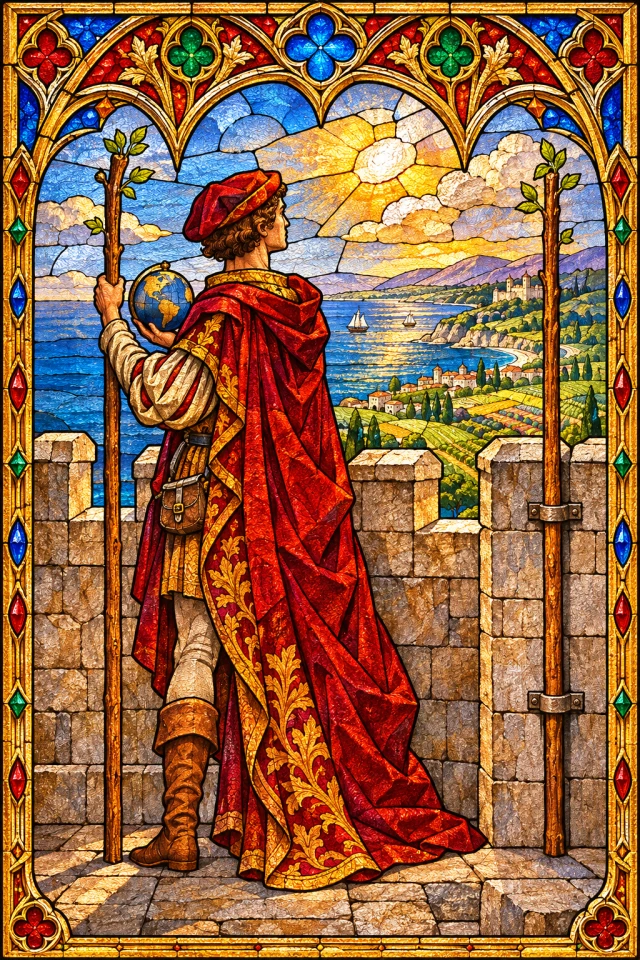
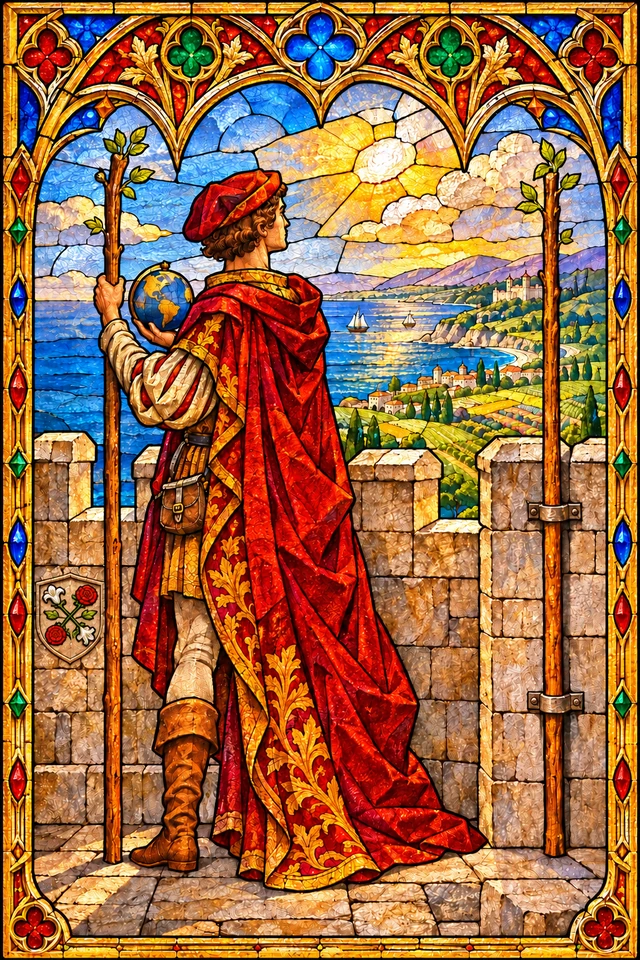
fix(preview): align study search, review disclosures and six candidate artworks
Keep preview and incomplete-review labels. Add bilingual pending checks,
complete per-card provenance, and regenerate reviewed image derivatives.

Validation: 57 offline tests, typecheck, full and web-lite builds,
upstream license verification and image manifests passed.
No live API calls, formal release or deployment.

diff --git a/src/App.vue b/src/App.vue
@@ -3,6 +3,7 @@ import {computed,ref,watch,nextTick,onUnmounted} from 'vue';import {cards,source
 import {saveReading,clearSavedHistory,exportSavedHistory} from './historyStore';
 import ArcanaIcon from './ArcanaIcon.vue';
 import CardArtwork from './CardArtwork.vue';
+import {matchesCardSearch} from './cardSearch';
 import {candidateArt,artStatus,artNote,installedArtCount} from './art';
 import {auditFor,auditLang,reviewLabel,modernPrompt,modernReversalNote,batch} from './audit';
 import {translate,type Locale} from './i18n';import {cardEnglish} from './cardEnglish';import {buildAIContext} from './ai';import ReflectionChat from './ReflectionChat.vue';import RealAcceptanceChat from './RealAcceptanceChat.vue';
@@ -18,7 +19,7 @@ let previousFocus:HTMLElement|null=null;
 watch(selected,async value=>{if(value){previousFocus=document.activeElement as HTMLElement;await nextTick();document.querySelector<HTMLButtonElement>('.modal .close')?.focus();}else{previousFocus?.focus();}});
 function modalKeys(event:KeyboardEvent){if(!selected.value)return;if(event.key==='Escape'){selected.value=null;return;}if(event.key==='Tab'){const items=Array.from(document.querySelectorAll<HTMLElement>('.modal button,.modal a[href],.modal summary'));if(!items.length)return;const first=items[0],last=items[items.length-1];if(event.shiftKey&&document.activeElement===first){event.preventDefault();last.focus();}else if(!event.shiftKey&&document.activeElement===last){event.preventDefault();first.focus();}}}
 document.addEventListener('keydown',modalKeys);onUnmounted(()=>document.removeEventListener('keydown',modalKeys));
-const filtered=computed(()=>cards.filter(c=>(filter.value==='全部'||c.suit===filter.value)&&`${c.name} ${c.english} ${c.theme} ${cardEnglish[c.id].theme}`.toLowerCase().includes(search.value.toLowerCase())));
+const filtered=computed(()=>cards.filter(c=>(filter.value==='全部'||c.suit===filter.value)&&matchesCardSearch(c,search.value)));
 const card=(id:string)=>cards.find(c=>c.id===id)!;
 const concealed=ref<string[]>([]);
 async function reveal(id:string){const index=current.value?.draws.findIndex(d=>d.id===id)??-1;concealed.value=concealed.value.filter(x=>x!==id);await nextTick();document.querySelectorAll<HTMLButtonElement>('.drawn .face')[index]?.focus();}
@@ -37,7 +38,7 @@ const aiContext=computed(()=>current.value?buildAIContext(current.value,locale.v
 <section v-else class="results"><div class="result-head"><div><h2>{{current.question||t('与此刻的自己对话')}}</h2><p>{{t("结果已固定。以下为项目原创反思文案，并非原典引文或未来预测。")}}</p></div></div><div class="draw-grid" :class="{single:current.draws.length===1}"><article v-for="d in current.draws" :key="d.id" class="drawn"><span class="position">{{t(d.position)}}</span><button class="face equal-face" :class="{revealed:!concealed.includes(d.id)}" @click="concealed.includes(d.id)?reveal(d.id):selected=card(d.id)" :aria-label="concealed.includes(d.id)?(locale==='en'?'Reveal card: ':'翻开牌：')+t(d.position):(locale==='en'?'View card: ':'查看牌：')+cardName(card(d.id))"><img v-if="concealed.includes(d.id)" src="/art/card-back.svg" alt="" width="1024" height="1536"><CardArtwork :locale="locale" v-else :id="d.id" :alt="cardName(card(d.id))" class="candidate-draw" :class="{reverse:d.reversed}" /></button><div class="card-caption"><template v-if="!concealed.includes(d.id)"><small>{{artStatus(d.id,locale)}}</small><h3>{{cardName(card(d.id))}}</h3><span class="orientation">{{t(d.reversed?'逆位 · 内在视角':'正位 · 显现视角')}}</span><p>{{interpretation(d)}}</p></template><span v-else>{{locale==='en'?'Click to reveal':'点击翻牌'}}</span></div></article></div><ReflectionChat v-if="aiContext && !concealed.length" :context="aiContext" /><RealAcceptanceChat v-if="aiContext && !concealed.length" :context="aiContext" /><div class="reading-end"><button @click="current=null">{{locale==='en'?'Finish this reading':'结束本次解读'}}</button></div></section></template>
 <section v-if="tab==='library'"><div class="page-title"><h1>{{t("78 个意象，一部图谱。")}}</h1><p>{{t("22 张大阿卡纳 · 56 张小阿卡纳。身份完整，图像与知识逐牌核校中。")}}</p></div><p class="audit-coverage">{{locale==='en'?'Primary texts: 78 basic named-card sections first-pass checked. Additional historical meanings and all images remain pending; no card is fully audited.':'原典文本：78 张基础条目首轮核对；额外历史释义、早期图版与成品图仍待审，目前没有全面核校完成的牌。'}}</p><div class="filters"><input v-model="search" :aria-label="t('搜索牌名')" :placeholder="t('搜索牌名、英文或主题…')"><select v-model="filter" :aria-label="t('筛选花色')"><option v-for="s in ['全部','大阿卡纳','权杖','圣杯','宝剑','星币']" :value="s">{{t(s)}}</option></select><span>{{filtered.length}} {{locale==='en'?(filtered.length===1?'card':'cards'):'张'}}</span></div><div class="library-grid"><button class="mini-card" v-for="c in filtered" :key="c.id" @click="selected=c"><span>{{c.arcana==='major'?String(c.rank).padStart(2,'0'):t(c.suit)}}</span><CardArtwork :locale="locale" v-if="candidateArt[c.id]" :id="c.id" sizes="(max-width: 600px) 38vw, 140px" :alt="cardName(c)" loading="lazy" class="candidate-thumb" /><i v-else>✧</i><small v-if="candidateArt[c.id]">{{artStatus(c.id,locale)}}</small><strong>{{cardName(c)}}</strong><small v-if="locale==='zh'">{{c.english}}</small><small v-if="!candidateArt[c.id] && artNote(c.id,locale)">{{artStatus(c.id,locale)}}</small><em>{{cardText(c,'theme')}}</em></button></div><p v-if="!filtered.length">{{t("没有找到匹配的牌。")}}</p></section>
 <section v-if="tab==='history'"><div class="page-title"><h1>{{t("留下片刻的思考。")}}</h1><p>{{t("只保存在当前浏览器，最多 50 条。不上传，不追踪。清除浏览器数据会丢失记录。")}}</p></div><div class="actions"><button @click="exportHistory" :disabled="!history.length"><ArcanaIcon name="export" :size="20" />{{t("导出 JSON 备份")}}</button><button @click="clearHistory" :disabled="!history.length">{{t("清除本地记录")}}</button></div><p v-if="!history.length" class="empty">{{t("还没有记录。你的第一段对话，随时可以开始。")}}</p><button v-for="r in history" class="history-item" @click="openReading(r)"><small>{{new Date(r.createdAt).toLocaleString(locale==='en'?'en-US':'zh-CN')}}</small><strong>{{r.question||t('与此刻的自己对话')}}</strong><span>{{r.draws.map(d=>cardName(card(d.id))+(d.reversed?(locale==='en'?' (reversed)':'（逆）'):'')).join(' · ')}} ↗</span></button></section>
-<section v-if="tab==='about'" class="about"><div class="page-title"><h1>{{t("关于这部秘典")}}</h1></div><p class="audit-coverage">{{locale==='en'?'Primary texts: 78 basic named-card sections first-pass checked. Additional historical meanings and all images remain pending; no card is fully audited.':'原典文本：78 张基础条目首轮核对；额外历史释义、早期图版与成品图仍待审，目前没有全面核校完成的牌。'}}</p><h2>{{t("一个体系，不混搭。")}}</h2><p>{{t("采用 Rider–Waite–Smith 78 张身份结构。力量为 VIII，正义为 XI。牌阵由程序固定位置；使用浏览器安全随机源，无放回抽取；每张牌独立决定正逆位。没有模型替你挑牌，也没有付费 API。")}}</p><h2>{{t("知识与来源分层")}}</h2><p>{{t("牌名与结构、可观察符号、历史解释、现代反思分别记录。78 张基础原典条目完成选择性首轮核对，额外历史释义尚待审。全部早期图版与成品图仍待核。现代正逆位反思是项目原创，不冒充 Waite 的历史占卜词条，也不是完整原典译本。")}}</p><article v-for="s in sources"><a :href="s.url" target="_blank" rel="noopener noreferrer">{{t(s.title)}} ↗</a><p>{{t(s.note)}}</p></article><h2>{{t("原创视觉，透明进度")}}</h2><p>{{t("方向为哥特彩绘玻璃。当前有 78 张候选图（含命运轮待排版底图），无占位，没有最终定稿牌面；界面几何装饰不是正式牌图。78 张牌的符号、人物与花色数量必须逐张验证。后续牌背必须具有 180° 旋转对称性。")}}</p><h2>{{t("免费、无广告、无追踪")}}</h2><p>{{t("无会员、支付、广告或数据收集。代码许可 MIT；本版原创中文摘要 CC0；第三方原典及图像以各自来源许可为准。不打包现代商业牌图或未获许可的译文。")}}</p><h2>{{t("使用边界")}}</h2><p>{{t("仅供文化学习和自我反思，不预测命运、不推断他人隐私，也不替代医疗、法律或财务建议。「死神」等名称不可用于推断真实死亡或疾病。遇到现实问题，请依据事实与适当的专业支持作出决定。")}}</p></section>
+<section v-if="tab==='about'" class="about"><div class="page-title"><h1>{{t("关于这部秘典")}}</h1></div><p class="audit-coverage">{{locale==='en'?'Primary texts: 78 basic named-card sections first-pass checked. Additional historical meanings and all images remain pending; no card is fully audited.':'原典文本：78 张基础条目首轮核对；额外历史释义、早期图版与成品图仍待审，目前没有全面核校完成的牌。'}}</p><h2>{{t("一个体系，不混搭。")}}</h2><p>{{t("采用 Rider–Waite–Smith 78 张身份结构。力量为 VIII，正义为 XI。牌阵由程序固定位置；使用浏览器安全随机源，无放回抽取；每张牌独立决定正逆位。没有模型替你挑牌。基础功能无需 API；可选 OpenAI 对话需要单独启用服务并确认数据分享，可能产生费用。")}}</p><h2>{{t("知识与来源分层")}}</h2><p>{{t("牌名与结构、可观察符号、历史解释、现代反思分别记录。78 张基础原典条目完成选择性首轮核对，额外历史释义尚待审。全部早期图版与成品图仍待核。现代正逆位反思是项目原创，不冒充 Waite 的历史占卜词条，也不是完整原典译本。")}}</p><article v-for="s in sources"><a :href="s.url" target="_blank" rel="noopener noreferrer">{{t(s.title)}} ↗</a><p>{{t(s.note)}}</p></article><h2>{{t("原创视觉，透明进度")}}</h2><p>{{t("方向为哥特彩绘玻璃。当前有 78 张候选图（含命运轮专项复核后的改编候选），无占位，没有最终定稿牌面；界面几何装饰不是正式牌图。78 张牌的符号、人物与花色数量必须逐张验证。当前原创 SVG 牌背采用 180° 旋转对称结构，仍为候选设计。")}}</p><h2>{{t("免费、无广告、无追踪")}}</h2><p>{{t("无会员、支付、广告或遥测。历史仅保存在本机浏览器；可选 OpenAI 对话只在明确同意后发送当前牌阵、问题和对话。代码采用 MIT；原创文案、图标和牌图采用相应 CC BY 4.0 条款，仅涵盖实际持有的可授权权利；第三方资料保留各自权利。这不保证生成图独占或无侵权风险。此前有效授予的 CC0 权利继续有效，详见 CONTENT-LICENSE.md。")}}</p><h2>{{t("使用边界")}}</h2><p>{{t("仅供文化学习和自我反思，不预测命运、不推断他人隐私，也不替代医疗、法律或财务建议。「死神」等名称不可用于推断真实死亡或疾病。遇到现实问题，请依据事实与适当的专业支持作出决定。")}}</p></section>
 <p v-if="notice" role="status" class="notice">{{t(notice)}}</p></main><footer><span>✦ {{t('琉璃秘典')}} / GLASS ARCANA</span><span>{{t("文化 · 意象 · 自我反思")}}</span><span>EARLY STUDY BUILD · 0.1.0</span></footer></div>
-<div v-if="selected" class="modal" @click.self="selected=null" @keydown.esc="selected=null"><section role="dialog" aria-modal="true" :aria-label="cardName(selected)" tabindex="-1"><button class="close" autofocus @click="selected=null"><ArcanaIcon name="close" :size="20" />{{locale==='en'?'Close':'关闭'}}</button><span class="section-no">{{selected.id}} · {{reviewLabel(selected.id,locale)}}</span><h2>{{cardName(selected)}}</h2><figure v-if="candidateArt[selected.id]" class="candidate-figure"><CardArtwork :locale="locale" :id="selected.id" :alt="cardName(selected)" /><figcaption>{{locale==='en'?'Generated candidate artwork. Visual/rights review pending; not approved.':'生成候选图，视觉及权利核验待完成，非定稿。'}}</figcaption><p v-if="selected.id==='major-2'">{{locale==='en'?'B/J/TORA and partial scroll concealment passed targeted visual review; final artwork review remains pending.':'B/J/TORA 与卷轴遮挡专项复核通过；整体成品仍待最终审校。'}}</p></figure><p v-if="artNote(selected.id,locale)">{{artStatus(selected.id,locale)}} · {{artNote(selected.id,locale)}}</p><p>{{selected.english}} · {{cardText(selected,'theme')}}</p><h3>{{t("图像核校清单")}}</h3><p>{{cardText(selected,'symbol')}}</p><p v-if="selected.arcana==='minor' && selected.rank<=10 && selected.count!==null">{{t('主花色器物目标数量：')}}{{selected.count}}{{t('。宫廷牌数字不是器物数量。')}}</p><div class="audit-state"><p>{{reviewLabel(selected.id,locale)}}</p><p>{{locale==='en'?'Early plate visual review: pending · Final artwork review: pending':'早期图版视觉核验：待核 · 项目成品图核验：待核'}}</p></div><details v-if="auditFor(selected.id)" class="historical"><summary>{{locale==='en'?'Historical study notes · not a prediction':'历史资料学习区 · 不作为预测'}}</summary><p>{{locale==='en'?'Selective summaries, not a complete translation. Sources: A. E. Waite, Wikisource transcription of the 1922 edition; original illustration attribution: Pamela Colman Smith.':'选择性历史摘要，不是完整译本。来源：A. E. Waite，Wikisource 的 1922 年版转录；原插图署名 Pamela Colman Smith。'}}</p><h3>{{locale==='en'?'Historical symbolism':'历史象征说明'}}</h3><p>{{auditFor(selected.id)!.historical.symbolism[auditLang(locale)]}}</p><h3>{{locale==='en'?'Historical divinatory terms':'历史占卜词条'}}</h3><p>{{auditFor(selected.id)!.historical.divination[auditLang(locale)]}}</p><p>{{auditFor(selected.id)!.historical.locator}}</p><p>{{auditFor(selected.id)!.limitations[auditLang(locale)]}}</p><ul><li v-for="source in batch.sources.filter(s=>auditFor(selected!.id)!.sources.includes(s.id))"><a :href="source.url" target="_blank" rel="noopener noreferrer">{{source.id}} ↗</a><small>{{source.edition}}</small></li></ul></details><h3>{{t("反思问题 · 项目原创")}}</h3><p>{{cardText(selected,'prompt')}}</p><h3>{{t("来源与状态")}}</h3><p>{{t("本条为学习摘要，待对照原典与早期图像逐项核校。不是原文引文。")}}</p><a :href="sources[0].url" target="_blank" rel="noopener">{{t("查看原典核校入口 ↗")}}</a></section></div>
+<div v-if="selected" class="modal" @click.self="selected=null" @keydown.esc="selected=null"><section role="dialog" aria-modal="true" :aria-label="cardName(selected)" tabindex="-1"><button class="close" autofocus @click="selected=null"><ArcanaIcon name="close" :size="20" />{{locale==='en'?'Close':'关闭'}}</button><span class="section-no">{{selected.id}} · {{reviewLabel(selected.id,locale)}}</span><h2>{{cardName(selected)}}</h2><figure v-if="candidateArt[selected.id]" class="candidate-figure"><CardArtwork :locale="locale" :id="selected.id" :alt="cardName(selected)" /><figcaption>{{locale==='en'?'Generated candidate artwork. Visual/rights review pending; not approved.':'生成候选图，视觉及权利核验待完成，非定稿。'}}</figcaption><p v-if="selected.id==='major-2'">{{locale==='en'?'B/J/TORA and partial scroll concealment passed targeted visual review; final artwork review remains pending.':'B/J/TORA 与卷轴遮挡专项复核通过；整体成品仍待最终审校。'}}</p></figure><p v-if="artNote(selected.id,locale)">{{artStatus(selected.id,locale)}} · {{artNote(selected.id,locale)}}</p><p>{{selected.english}} · {{cardText(selected,'theme')}}</p><h3>{{locale==='en'?'Historical image description · not an exact reproduction of this artwork':'原典图像描述 · 不代表本项目牌面逐项复刻'}}</h3><p>{{cardText(selected,'symbol')}}</p><section v-if="auditFor(selected.id)?.iconography.pendingChecks.length" class="pending-checks"><h3>{{locale==='en'?'Pending checks and differences':'待核事项与差异说明'}}</h3><ul><li v-for="(check,index) in auditFor(selected.id)!.iconography.pendingChecks" :key="index">{{check[auditLang(locale)]}}</li></ul></section><p v-if="selected.arcana==='minor' && selected.rank<=10 && selected.count!==null">{{t('主花色器物目标数量：')}}{{selected.count}}{{t('。宫廷牌数字不是器物数量。')}}</p><div class="audit-state"><p>{{reviewLabel(selected.id,locale)}}</p><p>{{locale==='en'?'Early plate visual review: pending · Final artwork review: pending':'早期图版视觉核验：待核 · 项目成品图核验：待核'}}</p></div><details v-if="auditFor(selected.id)" class="historical"><summary>{{locale==='en'?'Historical study notes · not a prediction':'历史资料学习区 · 不作为预测'}}</summary><p>{{locale==='en'?'Selective summaries, not a complete translation. Sources: A. E. Waite, Wikisource transcription of the 1922 edition; original illustration attribution: Pamela Colman Smith.':'选择性历史摘要，不是完整译本。来源：A. E. Waite，Wikisource 的 1922 年版转录；原插图署名 Pamela Colman Smith。'}}</p><h3>{{locale==='en'?'Historical symbolism':'历史象征说明'}}</h3><p>{{auditFor(selected.id)!.historical.symbolism[auditLang(locale)]}}</p><h3>{{locale==='en'?'Historical divinatory terms':'历史占卜词条'}}</h3><p>{{auditFor(selected.id)!.historical.divination[auditLang(locale)]}}</p><p>{{auditFor(selected.id)!.historical.locator}}</p><p>{{auditFor(selected.id)!.limitations[auditLang(locale)]}}</p><ul><li v-for="source in batch.sources.filter(s=>auditFor(selected!.id)!.sources.includes(s.id))"><a :href="source.url" target="_blank" rel="noopener noreferrer">{{source.id}} ↗</a><small>{{source.edition}}</small></li></ul></details><h3>{{t("反思问题 · 项目原创")}}</h3><p>{{cardText(selected,'prompt')}}</p><h3>{{t("来源与状态")}}</h3><p>{{t("本条为学习摘要，待对照原典与早期图像逐项核校。不是原文引文。")}}</p><a :href="sources[0].url" target="_blank" rel="noopener">{{t("查看原典核校入口 ↗")}}</a></section></div>
 </template>

diff --git a/src/i18n.ts b/src/i18n.ts
@@ -51,13 +51,13 @@ export const english:Record<string,string> = {
   "还没有记录。你的第一段对话，随时可以开始。": "No readings yet. Your first reflection can begin whenever you are ready.",
   "关于这部秘典": "About Glass Arcana",
   "一个体系，不混搭。": "One system, kept distinct.",
-  "采用 Rider–Waite–Smith 78 张身份结构。力量为 VIII，正义为 XI。牌阵由程序固定位置；使用浏览器安全随机源，无放回抽取；每张牌独立决定正逆位。没有模型替你挑牌，也没有付费 API。": "This project follows the 78-card Rider–Waite–Smith structure: Strength VIII and Justice XI. Spread positions are fixed by code. Secure browser randomness draws without replacement, with independently selected orientations. No model selects your cards and no paid API is used.",
+  "采用 Rider–Waite–Smith 78 张身份结构。力量为 VIII，正义为 XI。牌阵由程序固定位置；使用浏览器安全随机源，无放回抽取；每张牌独立决定正逆位。没有模型替你挑牌。基础功能无需 API；可选 OpenAI 对话需要单独启用服务并确认数据分享，可能产生费用。": "This project follows the 78-card Rider–Waite–Smith structure: Strength VIII and Justice XI. Spread positions are fixed by code. Secure browser randomness draws without replacement, with independently selected orientations. No model selects your cards. Core features need no API; optional OpenAI chat requires a separately enabled service and data-sharing consent and may incur charges.",
   "知识与来源分层": "Separate knowledge from interpretation",
   "牌名与结构、可观察符号、历史解释、现代反思分别记录。78 张基础原典条目完成选择性首轮核对，额外历史释义尚待审。全部早期图版与成品图仍待核。现代正逆位反思是项目原创，不冒充 Waite 的历史占卜词条，也不是完整原典译本。": "Card identity, observable symbols, historical meanings and modern reflections are separate layers. 78 basic named-card summaries have had a first-pass text check; additional historical meanings remain pending. All early-plate and final-artwork reviews are pending. Modern reflection is original project prose, not Waite’s historical divination or a complete translation.",
   "原创视觉，透明进度": "Original visuals, honest progress",
-  "方向为哥特彩绘玻璃。当前有 78 张候选图（含命运轮待排版底图），无占位，没有最终定稿牌面；界面几何装饰不是正式牌图。78 张牌的符号、人物与花色数量必须逐张验证。后续牌背必须具有 180° 旋转对称性。": "The visual direction is Gothic stained glass. 78 candidate artworks are installed, including the Wheel base pending typography; no placeholders remain and none is approved final art. Geometric decorations are not card art. Figures, symbols and suit counts need individual review. The final card back must be invariant under 180-degree rotation.",
+  "方向为哥特彩绘玻璃。当前有 78 张候选图（含命运轮专项复核后的改编候选），无占位，没有最终定稿牌面；界面几何装饰不是正式牌图。78 张牌的符号、人物与花色数量必须逐张验证。当前原创 SVG 牌背采用 180° 旋转对称结构，仍为候选设计。": "Gothic stained glass: 78 candidate faces including the Wheel adaptation after targeted symbol review, not a finished certified deck. Symbols, people and suit counts require individual review. The original SVG card back uses 180-degree rotational symmetry and remains a candidate.",
   "免费、无广告、无追踪": "Free, ad-free and tracking-free",
-  "无会员、支付、广告或数据收集。代码许可 MIT；本版原创中文摘要 CC0；第三方原典及图像以各自来源许可为准。不打包现代商业牌图或未获许可的译文。": "No memberships, payments, advertising or data collection. Code: MIT. Original Chinese and English notes: CC0. Third-party sources retain their own terms. No commercial modern deck images or unlicensed translations are bundled.",
+  "无会员、支付、广告或遥测。历史仅保存在本机浏览器；可选 OpenAI 对话只在明确同意后发送当前牌阵、问题和对话。代码采用 MIT；原创文案、图标和牌图采用相应 CC BY 4.0 条款，仅涵盖实际持有的可授权权利；第三方资料保留各自权利。这不保证生成图独占或无侵权风险。此前有效授予的 CC0 权利继续有效，详见 CONTENT-LICENSE.md。": "No memberships, payments, ads or telemetry. History stays in this browser. Optional OpenAI chat sends the current reading, question and conversation only with explicit consent. Code is MIT; original prose, icons and card artwork use their applicable CC BY 4.0 terms, only to the extent licensable rights are held. Third-party rights remain separate. Generated images are not guaranteed exclusive or non-infringing. Earlier valid CC0 grants remain effective; see CONTENT-LICENSE.md.",
   "使用边界": "Boundaries",
   "仅供文化学习和自我反思，不预测命运、不推断他人隐私，也不替代医疗、法律或财务建议。「死神」等名称不可用于推断真实死亡或疾病。遇到现实问题，请依据事实与适当的专业支持作出决定。": "For cultural learning and self-reflection only. This does not predict fate, reveal private thoughts or replace medical, legal or financial advice. Names such as Death must not be used to infer real death or illness. Base real-world decisions on facts and appropriate professional support.",
   "文化 · 意象 · 自我反思": "Culture · Symbolism · Reflection",

diff --git a/tests/art.test.ts b/tests/art.test.ts
@@ -1,5 +1,9 @@
-import {test} from 'node:test';import assert from 'node:assert/strict';import {existsSync} from 'node:fs';import {candidateArt,artStatus} from '../src/art';import review from '../src/artReview.json';test('78 candidates installed, Wheel explicitly pending typography',()=>{assert.equal(Object.keys(candidateArt).length,78);for(const path of Object.values(candidateArt))assert(existsSync('public'+path));assert.match(artStatus('major-10','en'),/typography pending/);for(const [id,r] of Object.entries(review)){assert.equal(Boolean(candidateArt[id]),r.installed);if(r.status==='adapted_candidate'){assert.match(artStatus(id,'zh'),/改编/);assert.match(artStatus(id,'en'),/Adapted/);}}});
+import {test} from 'node:test';import assert from 'node:assert/strict';import {existsSync} from 'node:fs';import {candidateArt,artStatus} from '../src/art';import review from '../src/artReview.json';test('78 candidates installed, Wheel retains targeted-review adaptation limits',()=>{assert.equal(Object.keys(candidateArt).length,78);for(const path of Object.values(candidateArt))assert(existsSync('public'+path));assert.match(artStatus('major-10','en'),/Adapted/);assert.match(review['major-10'].noteEn,/spoke extension above Mercury is missing/);for(const [id,r] of Object.entries(review)){assert.equal(Boolean(candidateArt[id]),r.installed);if(r.status==='adapted_candidate'){assert.match(artStatus(id,'zh'),/改编/);assert.match(artStatus(id,'en'),/Adapted/);}}});
 
 test('minor candidates cover every rank and preserve explicit adaptation limits',()=>{for(const suit of ['cups','wands','swords','pentacles'])for(let rank=1;rank<=14;rank++)assert(candidateArt[`${suit}-${rank}`]);assert.match(review['swords-12'].noteZh,/后腿/);assert.match(review['pentacles-10'].noteZh,/生命之树/);});
 
 test('responsive artwork preserves original hashes and supplies three sizes',async()=>{const {readFileSync}=await import('node:fs');const {createHash}=await import('node:crypto');const manifest=JSON.parse(readFileSync('src/artDerivatives.json','utf8'));assert.equal(Object.keys(manifest).length,Object.keys(candidateArt).length);for(const [id,r] of Object.entries(manifest) as [string,any][]){assert.equal(createHash('sha256').update(readFileSync('public'+candidateArt[id])).digest('hex'),r.originalSha256);for(const width of [320,640,1024])assert(existsSync(`public/art/derived/${id}-${width}.webp`));}});
+
+test('revised Ace of Cups and Two of Wands retain scoped adaptation review',()=>{for(const id of ['cups-1','wands-2'] as const){assert.equal(review[id].status,'adapted_candidate');assert.match(review[id].noteEn,/Targeted review passed|targeted review passed/);assert.match(review[id].noteEn,/rights review remain incomplete/);}});
+
+test('count-corrected candidates keep explicit adaptation differences',()=>{assert.match(review['major-6'].noteEn,/twelve flame clusters/);assert.match(review['major-17'].noteEn,/five land channels/);assert.match(review['major-18'].noteEn,/fifteen drops/);assert.match(review['major-18'].noteEn,/not yod/);assert.match(review['major-3'].noteEn,/floating arc/);});

diff --git a/tests/release-consistency.test.ts b/tests/release-consistency.test.ts
@@ -1,0 +1,28 @@
+import {test} from 'node:test';
+import assert from 'node:assert/strict';
+import {readFileSync} from 'node:fs';
+import {createHash} from 'node:crypto';
+import {cards} from '../src/cards';
+import {auditFor} from '../src/audit';
+import {matchesCardSearch} from '../src/cardSearch';
+import {translate} from '../src/i18n';
+import review from '../src/artReview.json';
+
+test('search finds every currently displayed bilingual theme, symbol and prompt',()=>{
+ for(const card of cards){const a=auditFor(card.id)!;for(const fields of [a.modern.theme,a.iconography.textChecked,a.modern.uprightPrompt])for(const text of Object.values(fields))assert(matchesCardSearch(card,text),card.id+': '+text);assert(matchesCardSearch(card,'  '+card.english.toUpperCase()+'  '));}
+ assert(!matchesCardSearch(cards[0],'not-a-card-xyzzzz'));
+});
+test('every candidate has honest review metadata matching the current original hash',()=>{
+ assert.deepEqual(Object.keys(review).sort(),cards.map(c=>c.id).sort());
+ for(const card of cards){const r=review[card.id as keyof typeof review];assert(r.noteZh&&r.noteEn);assert.equal(r.sha256,createHash('sha256').update(readFileSync(`public/art/${card.id}.png`)).digest('hex'));}
+ for(const id of ['major-0','major-13','cups-8'] as const){assert.equal(review[id].status,'candidate');assert.match(review[id].noteEn,/not a new visual or rights review/);}
+});
+test('About declares opt-in paid AI and current content license in both languages',()=>{
+ const app=readFileSync('src/App.vue','utf8');assert(!app.includes('中文摘要 CC0'));assert(!app.includes('也没有付费 API'));assert(!app.includes('后续牌背必须'));
+ for(const match of app.matchAll(/t\("([^"\n]+)"\)/g)){if(!/CC BY|基础功能无需 API|当前原创 SVG/.test(match[1]))continue;const english=translate(match[1],'en');assert.notEqual(english,match[1]);if(match[1].includes('CC BY'))assert.match(english,/Earlier valid CC0 grants remain effective/);assert(!english.includes('no paid API'));}
+});
+
+test('card details expose source-specific pending checks without claiming exact art reproduction',()=>{
+ const app=readFileSync('src/App.vue','utf8');assert.match(app,/iconography.pendingChecks/);assert.match(app,/check\[auditLang\(locale\)\]/);assert.match(app,/not an exact reproduction/);assert.match(app,/不代表本项目牌面逐项复刻/);
+ for(const card of cards){for(const item of auditFor(card.id)!.iconography.pendingChecks){assert(item.en.trim());assert(item['zh-CN'].trim());}}
+});

diff --git a/src/cardSearch.ts b/src/cardSearch.ts
@@ -1,0 +1,9 @@
+import type {Card} from './cards';
+import {auditFor} from './audit';
+import {cardEnglish} from './cardEnglish';
+/** Search the same current themes/symbols/prompts the gallery displays, in both locales. */
+export function matchesCardSearch(card:Card, query:string):boolean {
+ const a=auditFor(card.id);
+ const fields=a?[...Object.values(a.modern.theme),...Object.values(a.iconography.textChecked),...Object.values(a.modern.uprightPrompt)]:[card.theme,card.symbol,card.prompt,...Object.values(cardEnglish[card.id])];
+ return [card.name,card.english,...fields].join(' ').toLocaleLowerCase().includes(query.trim().toLocaleLowerCase());
+}

diff --git a/README.md b/README.md
@@ -32,13 +32,13 @@ Bilingual interface, 78 identities and study notes, single/three-card fixed spre
 
 `src/auditBasic78.json`: **78 基础原典条目首轮文本核对，0 张全面审校完成**。额外释义、组合规则及早期图版全面审查仍待完成；不是完整翻译或历史信念的事实证明。4/23 张仅为早期里程碑，不是当前数量。原典为 A. E. Waite，链接转录展示 1922 年版，原作 1910；早期图像署名 Pamela Colman Smith。参见 `SOURCES.md`、`docs/audits/basic-78.md`。
 
-`public/art/`: **78 张生成候选正面及 1 张原创 SVG 牌背候选**，不是 74 张占位。女祭司 B/J/TORA 与卷轴遮挡专项复核通过，仍非最终成品批准；命运轮底图仍待字母与炼金符号。其余改编限制见 `src/artReview.json`（例如宝剑骑士马腿裁切、星币十排列）。最终逐张图像与权利审查未完成。
+`public/art/`: **78 张生成候选正面及 1 张原创 SVG 牌背候选**，不是 74 张占位。女祭司 B/J/TORA 与卷轴遮挡专项复核通过，仍非最终成品批准；命运轮文字与炼金符号专项复核通过，作为原创改编保留顶部水星上方延伸辐条缺失等限制。其余改编限制见 `src/artReview.json`（例如宝剑骑士马腿裁切、星币十排列）。最终逐张图像与权利审查未完成。
 
-78 basic historical sections have first-pass text review only. All faces remain generated candidates, not a certified final deck. Wheel typography is pending; High Priestess passed targeted symbol review only. Historical summaries and modern reflections are separate. Earlier audit documents are milestone evidence, not the current release status.
+78 basic historical sections have first-pass text review only. All faces remain generated candidates, not a certified final deck. Wheel symbol review passed as an adaptation, with the upper spoke extension above Mercury missing; High Priestess passed targeted symbol review only. Historical summaries and modern reflections are separate. Earlier audit documents are milestone evidence, not the current release status.
 
 ### 图片加载 / Image delivery
 
-原 PNG 保留；`scripts/derive-art.py` 使用免费 libwebp `cwebp` 生成 320/640/1024px WebP。图库懒加载，衍生图失败回退 PNG；不裁切符号。78 原图共 299,234,978 bytes，三个尺寸分别共 6,922,102 / 26,765,528 / 68,632,028 bytes。当前 `dist` 约 **424 MiB**，公开部署前须评估存储和传输，不能据本机测试宣称公网性能通过。衍生图沿用原图候选/许可状态。
+原 PNG 保留；`scripts/derive-art.py` 使用免费 libwebp `cwebp` 生成 320/640/1024px WebP；此次六张修订图在云端使用 ImageMagick/libwebp method 6 按同尺寸和质量级别重建，编码器记录在 manifest。图库懒加载，衍生图失败回退 PNG；不裁切符号。78 原图共 296,988,947 bytes，三个尺寸分别共 6,934,812 / 26,725,180 / 67,848,150 bytes。当前 `dist` 约 **380.6 MiB（逻辑字节）**，公开部署前须评估存储和传输，不能据本机测试宣称公网性能通过。衍生图沿用原图候选/许可状态。
 
 ## 可选对话 / Optional conversation
 
@@ -60,7 +60,7 @@ Inspired by ziwei-doushu's complete-system approach, provenance and optional con
 
 ## 发布边界 / Release gate
 
-阅读 `docs/RELEASE_FUNCTIONAL_QA.md` 与 `docs/RELEASE_CHECKLIST.md`。当前为公开源码预览，不是正式发布版本，也未部署网站。Chrome 已完成记录中的功能检查，Safari 仅完成抽牌、语言与历史的冒烟测试；Firefox 未测试。完整读屏、公网性能、全部牌面历史细节和权利审查均未完成。命运轮符号仍待修订。初始源码采用白名单导出并检查常见凭据模式，不能据此保证不存在任何潜在秘密；后续提交仍需独立检查。
+阅读 `docs/RELEASE_FUNCTIONAL_QA.md` 与 `docs/RELEASE_CHECKLIST.md`。当前为公开源码预览，不是正式发布版本，也未部署网站。Chrome 已完成记录中的功能检查，Safari 仅完成抽牌、语言与历史的冒烟测试；Firefox 未测试。完整读屏、公网性能、全部牌面历史细节和权利审查均未完成。命运轮符号专项复核已通过，仍保留原创改编差异。初始源码采用白名单导出并检查常见凭据模式，不能据此保证不存在任何潜在秘密；后续提交仍需独立检查。
 
 ### 第三方运行时代码 / Bundled third-party code
 构建根据实际 Rollup 非空输出模块生成 `THIRD_PARTY_NOTICES.md`，并将上游完整 LICENSE/NOTICE 原样放入 `dist/licenses/`，构建结束自动逐字核验，不改变第三方条款。当前渲染代码包含 Vue 3.5.45 的 runtime-dom/runtime-core/reactivity/shared，以及 Vite 7.3.8 modulepreload 与 @vitejs/plugin-vue 6.0.10 export-helper 虚拟模块；未知非空虚拟模块会阻止构建，须先核查来源；Vue 顶层入口自身无保留代码，但其运行时包的完整 MIT 署名均随附。发布 dist 时不得遗漏通知目录。
@@ -68,4 +68,6 @@ Inspired by ziwei-doushu's complete-system approach, provenance and optional con
 `docs/DEPENDENCY_INVENTORY.json` separately records all lockfile build/test/type/transitive dependency license declarations, including non-MIT declarations. It is metadata, not a replacement for their full license texts. Source delivery excludes node_modules; if tools, binaries or dependencies are redistributed later, include their own complete licenses and NOTICE requirements. Generated production notices cover only rendered browser code, not artwork or external documentation.
 
 ### 独立轻量交付试构建 / Independent lightweight build
-`npm run build:web` requires local ImageMagick `magick` and Python3. It keeps all original PNGs, stages JPEG fallbacks separately and produces `dist-web/` with unchanged responsive WebP variants. Original hashes and every output path are verified. Normal `npm run build` and the dev preview still use original PNG fallback. Measured web artifact is about198.5MB logical bytes versus402.2MB for normal dist; All 78 JPEG pairs received overview comparison and selected details received close-up review; full-resolution human review of every symbol remains incomplete (docs/JPEG_FALLBACK_QA.md). No deployment is performed. Both artifacts carry full licensing notices.
+`npm run build:web` requires local ImageMagick `magick` and Python3. It keeps all original PNGs, stages JPEG fallbacks separately and produces `dist-web/` with unchanged responsive WebP variants. Original hashes and every output path are verified. Normal `npm run build` and the dev preview still use original PNG fallback. This cloud build measures 196,671,314 logical bytes for dist-web and 399,099,804 for normal dist. Encoder versions can affect JPEG sizes. The earlier 78-pair overview applies to its recorded build; three revised images have since been integrated and regenerated. Current hashes and paths pass verification. Independent comparison of the three revised PNG/WebP/JPEG sets passed; the Two of Wands emblem is small at 320px and needs a larger view. The additional Lovers/Star/Moon count-correction delivery sets also passed independent PNG/9-WebP/3-JPEG visual and manifest checks. Lovers flames are small at 320px; count at 640px or larger. This is not a new full-78 or full-resolution historical review (docs/JPEG_FALLBACK_QA.md). No deployment is performed. Both artifacts carry full licensing notices.
+
+Whole-deck scope: all 78 project images received actual visual inspection, but exhaustive historical source-plate comparison remains incomplete, including 19 numbered Minor cards and three Court cards among the documented gaps. Six targeted corrections and derivative checks do not constitute complete 78-card historical or legal clearance.

diff --git a/docs/JPEG_FALLBACK_QA.md b/docs/JPEG_FALLBACK_QA.md
@@ -1,8 +1,8 @@
 # JPEG fallback comparison / JPEG 备用图压缩验收
 
-Date: 2026-11-12. Scope is compression fidelity, NOT historical or artistic accuracy.
+Date: 2026-11-12. Scope is compression fidelity, NOT historical or artistic accuracy. The original 78-pair measurements below describe the earlier artwork build, not the subsequently replaced three faces.
 
-## Method and result
+## Earlier build: method and result
 - All 78 PNG originals were independently resized using the same 1024×1536 maximum / white-alpha handling as the JPEG converter, without overwriting originals. All reference/JPEG pairs decoded and have matching 1024×1536 dimensions.
 - Viewed all 78 pairs in 13 side-by-side sheets at approximately 180×270 per image. No visible card-identity swap, framing loss, new/missing large suit objects, or significant color shift was observed at this overview scale. This is not a claim of 78 full-resolution symbol audits.
 - Viewed larger paired crops of High Priestess (TORA/scroll/cross), Ace of Cups (dove/wafer/streams), Two of Wands (stone/rod fittings, high-error case), and Ten of Swords (blade/body boundaries). JPEG texture is modestly softer but these visible features retain their original shape. No compression-specific blocker found in these samples.
@@ -18,3 +18,21 @@ Per-card measurements: `JPEG_FALLBACK_METRICS.json`. Temporary side-by-side shee
 ## Additional full-image sampling
 - Seven of Cups: viewed 1024×1536 JPEG; seven distinct cup vessels and their major contents remain legible (head, illuminated draped figure, serpent, castle, jewels, wreath, dragon). Whether the draped figure faithfully matches the intended historical plate is a separate open content judgement.
 - Five of Wands: viewed 1024×1536 JPEG; five figures and five intersecting staffs are distinguishable. Dense crossings require larger view; thumbnail counting alone should not be used as final symbol approval.
+
+## Revised three-card delivery review — 2026-11-12
+
+After replacement, an independent review checked the revised Wheel of Fortune, Ace of Cups and Two of Wands PNGs against their 320/640/1024px WebP and JPEG fallback outputs, and verified hashes. These three revised delivery sets passed the scoped comparison; this is not a new approval of all 78 cards or a legal-clearance certificate. The Two of Wands emblem is small at 320px: inspect at larger resolution for its detailed crossed rose/lily design. No claim is made that every small glyph is readable in a thumbnail.
+
+The Wheel passed as an original RWS adaptation, not a stroke-for-stroke reproduction; the spoke extension above Mercury remains absent. Ace of Cups and Two of Wands passed targeted symbol corrections, not complete historical or rights review. See `src/artReview.json` for retained limitations. The earlier RMSE table remains historical evidence and has not been recomputed for this revision.
+
+Current original SHA-256:
[3 lines of base64/hex data omitted]
+
+## Additional count corrections — targeted delivery review passed
+The Lovers (twelve flame clusters), Star (five land channels), and Moon (fifteen drops) were replaced after targeted independent PNG count review. Their regenerated delivery sets subsequently passed independent manifest/hash checks and actual visual comparison: three PNGs, nine WebPs and three JPEGs. Lovers flames are small at 320px; use 640px or larger to count them. This is a scoped six-card revision record across the two batches, not proof of full historical fidelity for the whole deck. Retained differences: uniform flames/clothed figures; small round pools at the five channel ends; three rows of ordinary drops rather than yod glyphs, and moon-ray counts not fully checked. The Empress is unchanged: her twelve-star floating arc is not twelve stars mounted on a crown. See current bilingual artReview and pendingChecks.
+
+## Whole-deck scope and remaining historical comparison gaps
+
+The earlier actual visual inspection covered all 78 project images. That overview must not be confused with exhaustive source-plate comparison: evidence for historical plate comparisons remains incomplete, including 19 numbered Minor cards and three Court cards, among other recorded gaps. The targeted six-card corrections and delivery checks do not fill those unrelated gaps. Retain candidate/adaptation labels and source-specific pending checks; no claim is made that all 78 cards match every historical detail, or that visual review clears legal rights.

diff --git a/ARTWORK-NOTICE.md b/ARTWORK-NOTICE.md
@@ -4,7 +4,7 @@
 
 `public/art/` contains 78 AI-generated candidate card faces, created for this project using OpenAI image-generation tooling under the owner's direction. They are original project candidates inspired by the Rider–Waite–Smith system and a Gothic stained-glass visual direction, not scans of a modern commercial deck. Generation does not by itself establish copyrightability, exclusivity, non-infringement, or worldwide public-domain status. Similar outputs may exist; rights and service terms vary by jurisdiction and applicable agreement.
 
-Per-card original hashes, review notes and adaptation limitations are recorded in `src/artReview.json`; derivative provenance is in `src/artDerivatives.json` and batch audit files. These are review records, not certificates of clearance. No claim is made that every face is final: Wheel letters/alchemical symbols remain pending; High Priestess passed a targeted B/J/TORA/scroll check, not complete final review. Public-domain historical motifs are distinguished from any rights in new expression.
+Per-card original hashes, review notes and adaptation limitations are recorded in `src/artReview.json`; derivative provenance is in `src/artDerivatives.json` and batch audit files. These are review records, not certificates of clearance. No claim is made that every face is final: Wheel letters/alchemical symbols passed targeted comparison as an original adaptation, with the upper spoke extension above Mercury missing; High Priestess passed a targeted B/J/TORA/scroll check, not complete final review. Public-domain historical motifs are distinguished from any rights in new expression.
 
 ## Derivatives and back
 

diff --git a/docs/RELEASE_CHECKLIST.md b/docs/RELEASE_CHECKLIST.md
@@ -13,7 +13,7 @@ This is a release gate, not a declaration of complete acceptance. Current eviden
 
 ## Content / 内容
 - [ ] 78 identities, Strength VIII / Justice XI. 78 basic historical sections first-pass only; additional meanings, combinations and early plates pending; zero fully audited cards.
-- [ ] 78 generated faces and one SVG back remain candidates, not placeholders or final approvals. Wheel typography pending; Priestess targeted review only; retain all adapted-candidate limitations.
+- [ ] 78 generated faces and one SVG back remain candidates, not placeholders or final approvals. Wheel symbols targeted-review passed with documented adaptation limits; Priestess targeted review only; retain all adapted-candidate limitations.
 - [ ] Historical source locators and Waite/Smith attribution distinct from modern reflection; no invented quotations.
 - [ ] Owner approved MIT code and CC BY 4.0 original prose/icons; preserve valid prior CC0 rights and check distribution history. 78 AI faces and derivatives approved CC BY 4.0 only for actually held licensable rights; no exclusivity/copyright guarantee. Owner separately approved original SVG card back under CC BY 4.0; visual review limits still apply.
 - [ ] Verify image provenance/rights and third-party licenses. Free/noncommercial product intent is not a no-commercial-use license.
